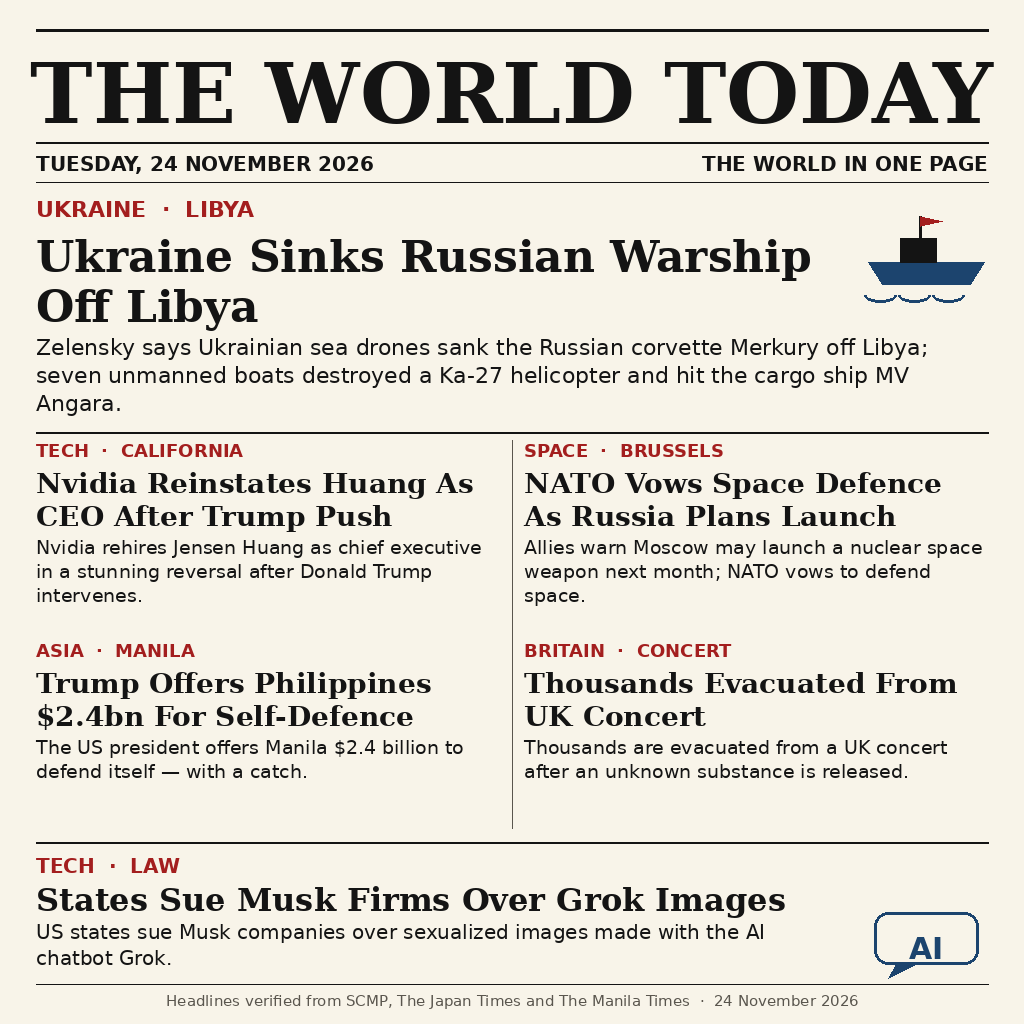
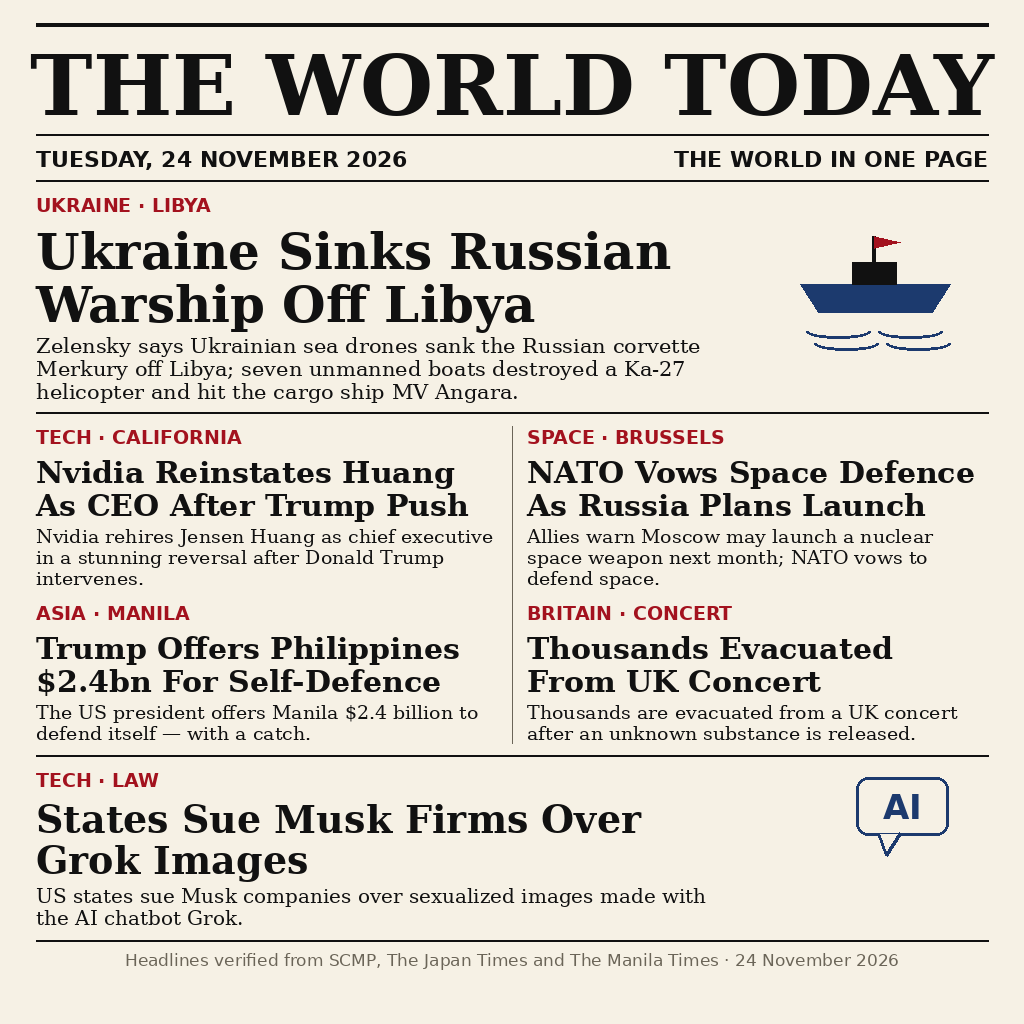
Rewrite draw.py from scratch for round 2

Changed region(s): [[0.0312, 0.0, 0.9688, 1.0]]

diff --git a/draw.py b/draw.py
@@ -1,203 +1,230 @@
-#!/usr/bin/env python3
-"""Draw the front page for make.fun news-image-20261124.
+"""Draw the front page of THE WORLD TODAY for Tuesday 24 November 2026.
 
-Renders the verified world headlines of Tuesday 24 November 2026 as a
-one-page newspaper front page (1024x1024 PNG) and writes it to
-entry.png beside this file. Run once, locally:
+A one-page newspaper front page (1024 x 1024) built from the six
+verified headlines of the day. Run it with:
 
     python3 draw.py
 
-The drawing is fully deterministic: fixed headlines, fixed fonts, fixed
-layout, no clock, no randomness, no network. The entry point the
-grader runs is main.ts (Node), which copies the finished entry.png to
-/output/entry.png byte for byte.
-
-Headlines were verified on 24 November 2026 against SCMP, The Japan
-Times and The Manila Times (all dated 24 November 2026); only
-headline-level facts are used, and no casualty or damage figures are
-given.
+It writes entry.png next to this file. No network, no clock, no
+randomness: the same input always draws the same page.
 """
-
-import os
 
 from PIL import Image, ImageDraw, ImageFont
 
-HERE = os.path.dirname(os.path.abspath(__file__))
-OUT = os.path.join(HERE, "entry.png")
-
-W, H = 1024, 1024
+PAGE_W, PAGE_H = 1024, 1024
+PAPER = (246, 241, 229)
+INK = (17, 17, 17)
+RED = (163, 18, 30)
+NAVY = (28, 58, 110)
+GREY = (107, 101, 88)
 MARGIN = 36
-CONTENT_W = W - 2 * MARGIN
+CONTENT_W = PAGE_W - 2 * MARGIN
 
-PAPER = (248, 244, 233)   # warm newsprint
-INK = (20, 20, 20)
-RED = (163, 30, 30)       # kicker accent
-GREY = (90, 86, 78)
-BLUE = (28, 68, 110)      # sea accent
-
-FONT_DIR = "/usr/share/fonts/truetype/dejavu"
+SERIF_BOLD = "/usr/share/fonts/truetype/dejavu/DejaVuSerif-Bold.ttf"
+SERIF = "/usr/share/fonts/truetype/dejavu/DejaVuSerif.ttf"
+SANS_BOLD = "/usr/share/fonts/truetype/dejavu/DejaVuSans-Bold.ttf"
+SANS = "/usr/share/fonts/truetype/dejavu/DejaVuSans.ttf"
 
 
-def font(name, size):
-    return ImageFont.truetype(os.path.join(FONT_DIR, name), size)
+def load(path, size):
+    """Load a TrueType font; fall back to the built-in bitmap font."""
+    try:
+        return ImageFont.truetype(path, size)
+    except Exception:
+        return ImageFont.load_default()
 
 
-SERIF_B = lambda s: font("DejaVuSerif-Bold.ttf", s)   # noqa: E731
-SANS = lambda s: font("DejaVuSans.ttf", s)            # noqa: E731
-SANS_B = lambda s: font("DejaVuSans-Bold.ttf", s)     # noqa: E731
-
-
-def wrap(draw, text, fnt, max_width):
-    """Greedy word wrap; returns a list of lines that fit max_width."""
-    lines, cur = [], ""
-    for word in text.split():
-        trial = word if not cur else cur + " " + word
-        if draw.textlength(trial, font=fnt) <= max_width:
-            cur = trial
+def wrap_text(draw, text, face, max_width):
+    """Split text into lines that each fit inside max_width."""
+    words = text.split()
+    lines = []
+    current = ""
+    for word in words:
+        trial = (current + " " + word).strip()
+        if draw.textlength(trial, font=face) <= max_width:
+            current = trial
         else:
-            if cur:
-                lines.append(cur)
-            cur = word
-    if cur:
-        lines.append(cur)
+            if current:
+                lines.append(current)
+            current = word
+    if current:
+        lines.append(current)
     return lines
 
 
-def draw_wrapped(draw, x, y, text, fnt, max_width, fill, leading):
-    lines = wrap(draw, text, fnt, max_width)
+def draw_lines(draw, x, y, lines, face, fill, gap):
+    """Draw a list of lines, one under the next; return the y below."""
     for line in lines:
-        draw.text((x, y), line, font=fnt, fill=fill)
-        y += leading
+        draw.text((x, y), line, font=face, fill=fill)
+        y += face.size + gap
     return y
 
 
-def rule(draw, x0, x1, y, width=2, fill=INK):
-    draw.line([(x0, y), (x1, y)], fill=fill, width=width)
+def hline(draw, x1, x2, y, width=2, fill=INK):
+    draw.line([(x1, y), (x2, y)], fill=fill, width=width)
 
 
-def draw_ship(draw, cx, cy):
-    """Simple warship on waves, drawn to the right of the lead headline."""
-    # hull
-    draw.polygon([(cx - 58, cy - 6), (cx + 58, cy - 6), (cx + 44, cy + 16),
-                  (cx - 44, cy + 16)], fill=BLUE)
-    # superstructure
-    draw.rectangle([cx - 26, cy - 30, cx + 10, cy - 6], fill=INK)
-    # mast + flag
-    draw.line([(cx - 6, cy - 52), (cx - 6, cy - 30)], fill=INK, width=3)
-    draw.polygon([(cx - 6, cy - 52), (cx + 16, cy - 47), (cx - 6, cy - 42)],
-                 fill=RED)
-    # waves
-    for dx in (-46, -12, 22):
-        draw.arc([cx + dx - 16, cy + 20, cx + dx + 16, cy + 34],
-                 start=0, end=180, fill=BLUE, width=3)
+def fit_headline(draw, headline, face_path, start_size, max_width, max_lines):
+    """Pick the largest headline size that wraps into max_lines lines."""
+    size = start_size
+    while size > 20:
+        face = load(face_path, size)
+        lines = wrap_text(draw, headline, face, max_width)
+        if len(lines) <= max_lines:
+            return face, lines
+        size -= 2
+    face = load(face_path, size)
+    return face, wrap_text(draw, headline, face, max_width)
 
 
-def draw_bubble(draw, cx, cy):
-    """Chat bubble with AI, drawn to the right of the bottom band."""
-    draw.rounded_rectangle([cx - 52, cy - 30, cx + 52, cy + 22],
-                           radius=14, outline=BLUE, width=3)
-    draw.polygon([(cx - 30, cy + 22), (cx - 38, cy + 36), (cx - 10, cy + 22)],
-                 fill=BLUE)
-    draw.text((cx, cy - 11), "AI", font=SANS_B(30), fill=BLUE, anchor="ma")
+def story(draw, x, y, width, kicker, headline, body,
+          head_start, head_lines, body_size, body_lines):
+    """Draw one story block; return the y just below it."""
+    kick = load(SANS_BOLD, 19)
+    draw.text((x, y), kicker, font=kick, fill=RED)
+    y += 28
+    face, lines = fit_headline(draw, headline, SERIF_BOLD,
+                               head_start, width, head_lines)
+    y = draw_lines(draw, x, y, lines, face, INK, 3)
+    y += 5
+    body_face = load(SERIF, body_size)
+    body_lines_wrapped = wrap_text(draw, body, body_face, width)
+    y = draw_lines(draw, x, y, body_lines_wrapped[:body_lines],
+                   body_face, INK, 2)
+    return y
+
+
+def draw_ship(draw, x, y, scale=1.0):
+    """A small warship with a red flag, drawn from plain shapes."""
+    hull = [(x, y + 34 * scale), (x + 150 * scale, y + 34 * scale),
+            (x + 132 * scale, y + 62 * scale), (x + 18 * scale, y + 62 * scale)]
+    draw.polygon(hull, fill=NAVY)
+    draw.rectangle([x + 52 * scale, y + 12 * scale,
+                    x + 96 * scale, y + 34 * scale], fill=INK)
+    draw.line([(x + 74 * scale, y + 12 * scale),
+               (x + 74 * scale, y - 14 * scale)], fill=INK, width=4)
+    flag = [(x + 74 * scale, y - 14 * scale),
+            (x + 100 * scale, y - 8 * scale),
+            (x + 74 * scale, y - 2 * scale)]
+    draw.polygon(flag, fill=RED)
+    for i, wy in enumerate((y + 74 * scale, y + 86 * scale)):
+        draw.arc([x + 6 * scale + i * 8, wy,
+                  x + 70 * scale + i * 8, wy + 14 * scale],
+                 start=0, end=180, fill=NAVY, width=3)
+        draw.arc([x + 78 * scale + i * 8, wy,
+                  x + 142 * scale + i * 8, wy + 14 * scale],
+                 start=0, end=180, fill=NAVY, width=3)
+
+
+def draw_bubble(draw, x, y, w=92, h=58):
+    """A speech bubble with AI inside it, drawn from plain shapes."""
+    draw.rounded_rectangle([x, y, x + w, y + h], radius=12,
+                           outline=NAVY, width=3, fill=PAPER)
+    tail = [(x + 22, y + h - 2), (x + 44, y + h - 2),
+            (x + 30, y + h + 20)]
+    draw.polygon(tail, outline=NAVY, fill=PAPER)
+    draw.line([(x + 22, y + h - 2), (x + 30, y + h + 20)], fill=NAVY, width=3)
+    draw.line([(x + 44, y + h - 2), (x + 30, y + h + 20)], fill=NAVY, width=3)
+    face = load(SANS_BOLD, 34)
+    label = "AI"
+    tw = draw.textlength(label, font=face)
+    draw.text((x + (w - tw) / 2, y + 10), label, font=face, fill=NAVY)
 
 
 def main():
-    img = Image.new("RGB", (W, H), PAPER)
-    d = ImageDraw.Draw(img)
-    x0, x1 = MARGIN, W - MARGIN
+    page = Image.new("RGB", (PAGE_W, PAGE_H), PAPER)
+    draw = ImageDraw.Draw(page)
+    left = MARGIN
+    right = PAGE_W - MARGIN
 
-    # ---- Masthead -----------------------------------------------------
-    rule(d, x0, x1, 30, 3)
-    d.text((W // 2, 44), "THE WORLD TODAY", font=SERIF_B(84),
-           fill=INK, anchor="ma")
-    rule(d, x0, x1, 142, 2)
-    d.text((x0, 152), "TUESDAY, 24 NOVEMBER 2026", font=SANS_B(20),
-           fill=INK, anchor="la")
-    d.text((x1, 152), "THE WORLD IN ONE PAGE", font=SANS_B(20),
-           fill=INK, anchor="ra")
-    rule(d, x0, x1, 182, 1)
+    # --- masthead ---
+    hline(draw, left, right, 24, width=4)
+    mast = load(SERIF_BOLD, 84)
+    title = "THE WORLD TODAY"
+    tw = draw.textlength(title, font=mast)
+    draw.text(((PAGE_W - tw) / 2, 36), title, font=mast, fill=INK)
+    hline(draw, left, right, 134, width=2)
 
-    # ---- Lead story ---------------------------------------------------
-    y = 196
-    d.text((x0, y), "UKRAINE  \u00b7  LIBYA", font=SANS_B(22), fill=RED)
-    y += 34
-    y = draw_wrapped(
-        d, x0, y, "Ukraine Sinks Russian Warship Off Libya",
-        SERIF_B(44), CONTENT_W - 150, INK, 50)
-    draw_ship(d, x1 - 62, 268)
-    y += 4
-    y = draw_wrapped(
-        d, x0, y,
-        "Zelensky says Ukrainian sea drones sank the Russian corvette "
-        "Merkury off Libya; seven unmanned boats destroyed a Ka-27 "
-        "helicopter and hit the cargo ship MV Angara.",
-        SANS(22), CONTENT_W, INK, 28)
-    rule(d, x0, x1, y + 14, 2)
+    # --- dateline ---
+    date_face = load(SANS_BOLD, 22)
+    draw.text((left, 146), "TUESDAY, 24 NOVEMBER 2026",
+              font=date_face, fill=INK)
+    tag = "THE WORLD IN ONE PAGE"
+    tw = draw.textlength(tag, font=date_face)
+    draw.text((right - tw, 146), tag, font=date_face, fill=INK)
+    hline(draw, left, right, 180, width=2)
 
-    # ---- 2 x 2 grid ----------------------------------------------------
-    col_w = (CONTENT_W - 24) // 2
-    grid = [
-        ("TECH  \u00b7  CALIFORNIA",
-         "Nvidia Reinstates Huang As CEO After Trump Push",
-         "Nvidia rehires Jensen Huang as chief executive in a stunning "
-         "reversal after Donald Trump intervenes."),
-        ("SPACE  \u00b7  BRUSSELS",
-         "NATO Vows Space Defence As Russia Plans Launch",
-         "Allies warn Moscow may launch a nuclear space weapon next "
-         "month; NATO vows to defend space."),
-        ("ASIA  \u00b7  MANILA",
-         "Trump Offers Philippines $2.4bn For Self-Defence",
-         "The US president offers Manila $2.4 billion to defend itself "
-         "\u2014 with a catch."),
-        ("BRITAIN  \u00b7  CONCERT",
-         "Thousands Evacuated From UK Concert",
-         "Thousands are evacuated from a UK concert after an unknown "
-         "substance is released."),
-    ]
-    gy = y + 22
-    row_h = 200
-    for i, (kicker, headline, dek) in enumerate(grid):
-        col = i % 2
-        row = i // 2
-        cx = x0 + col * (col_w + 24)
-        cy = gy + row * row_h
-        d.text((cx, cy), kicker, font=SANS_B(18), fill=RED)
-        cy = draw_wrapped(d, cx, cy + 26, headline, SERIF_B(28),
-                          col_w, INK, 33)
-        draw_wrapped(d, cx, cy + 4, dek, SANS(19), col_w, INK, 24)
-    # vertical divider between the two columns
-    mid_x = x0 + col_w + 12
-    d.line([(mid_x, gy), (mid_x, gy + 2 * row_h - 12)], fill=GREY, width=1)
+    # --- lead story: Ukraine sinks a Russian warship ---
+    y = 194
+    lead_end = story(draw, left, y, 690,
+                     "UKRAINE \u00b7 LIBYA",
+                     "Ukraine Sinks Russian Warship Off Libya",
+                     "Zelensky says Ukrainian sea drones sank the Russian "
+                     "corvette Merkury off Libya; seven unmanned boats "
+                     "destroyed a Ka-27 helicopter and hit the cargo ship "
+                     "MV Angara.",
+                     head_start=50, head_lines=2, body_size=21, body_lines=3)
+    draw_ship(draw, 800, 250, scale=1.0)
+    hline(draw, left, right, lead_end + 10, width=2)
 
-    # ---- Bottom band ---------------------------------------------------
-    by = gy + 2 * row_h + 2
-    rule(d, x0, x1, by, 2)
-    by += 12
-    d.text((x0, by), "TECH  \u00b7  LAW", font=SANS_B(20), fill=RED)
-    by += 26
-    d.text((x0, by), "States Sue Musk Firms Over Grok Images",
-           font=SERIF_B(32), fill=INK)
-    by += 40
-    draw_wrapped(
-        d, x0, by,
-        "US states sue Musk companies over sexualized images made with "
-        "the AI chatbot Grok.",
-        SANS(20), CONTENT_W - 150, INK, 26)
-    draw_bubble(d, x1 - 62, by + 22)
-    by += 62
+    # --- middle grid: two columns, two stories each ---
+    col_w = (CONTENT_W - 30) // 2
+    mid_x = left + col_w + 30
+    grid_top = lead_end + 24
 
-    # ---- Footer --------------------------------------------------------
-    rule(d, x0, x1, 984, 1)
-    d.text((W // 2, 992),
-           "Headlines verified from SCMP, The Japan Times and The Manila "
-           "Times  \u00b7  24 November 2026",
-           font=SANS(15), fill=GREY, anchor="ma")
+    y_left = story(draw, left, grid_top, col_w,
+                   "TECH \u00b7 CALIFORNIA",
+                   "Nvidia Reinstates Huang As CEO After Trump Push",
+                   "Nvidia rehires Jensen Huang as chief executive in "
+                   "a stunning reversal after Donald Trump intervenes.",
+                   head_start=30, head_lines=2, body_size=19, body_lines=3)
+    y_right = story(draw, mid_x, grid_top, col_w,
+                    "SPACE \u00b7 BRUSSELS",
+                    "NATO Vows Space Defence As Russia Plans Launch",
+                    "Allies warn Moscow may launch a nuclear space "
+                    "weapon next month; NATO vows to defend space.",
+                    head_start=30, head_lines=2, body_size=19, body_lines=3)
+    row2 = max(y_left, y_right) + 14
 
-    assert by < 984, f"layout overflow: bottom band ends at {by}"
-    img.save(OUT, format="PNG")
-    size = os.path.getsize(OUT)
-    print(f"wrote {OUT} ({size} bytes, {W}x{H})")
-    assert size <= 1048576, "entry.png exceeds 1 MiB"
+    y_left = story(draw, left, row2, col_w,
+                   "ASIA \u00b7 MANILA",
+                   "Trump Offers Philippines $2.4bn For Self-Defence",
+                   "The US president offers Manila $2.4 billion to "
+                   "defend itself \u2014 with a catch.",
+                   head_start=30, head_lines=2, body_size=19, body_lines=3)
+    y_right = story(draw, mid_x, row2, col_w,
+                    "BRITAIN \u00b7 CONCERT",
+                    "Thousands Evacuated From UK Concert",
+                    "Thousands are evacuated from a UK concert after "
+                    "an unknown substance is released.",
+                    head_start=30, head_lines=2, body_size=19, body_lines=3)
+    grid_bottom = max(y_left, y_right)
+    draw.line([(mid_x - 15, grid_top), (mid_x - 15, grid_bottom)],
+              fill=GREY, width=1)
+    hline(draw, left, right, grid_bottom + 12, width=2)
+
+    # --- bottom story: states sue Musk firms ---
+    y = grid_bottom + 26
+    bottom_end = story(draw, left, y, 700,
+                       "TECH \u00b7 LAW",
+                       "States Sue Musk Firms Over Grok Images",
+                       "US states sue Musk companies over sexualized images "
+                       "made with the AI chatbot Grok.",
+                       head_start=38, head_lines=2, body_size=20, body_lines=2)
+    draw_bubble(draw, 856, y + 8)
+
+    # --- footer ---
+    hline(draw, left, right, bottom_end + 12, width=2)
+    foot = load(SANS, 17)
+    note = ("Headlines verified from SCMP, The Japan Times and "
+            "The Manila Times \u00b7 24 November 2026")
+    tw = draw.textlength(note, font=foot)
+    draw.text(((PAGE_W - tw) / 2, bottom_end + 22), note, font=foot, fill=GREY)
+
+    page.save("entry.png")
+    print("wrote entry.png (1024x1024)")
+    print("lead_end=%d grid_bottom=%d bottom_end=%d" % (
+        lead_end, grid_bottom, bottom_end))
 
 
 if __name__ == "__main__":
